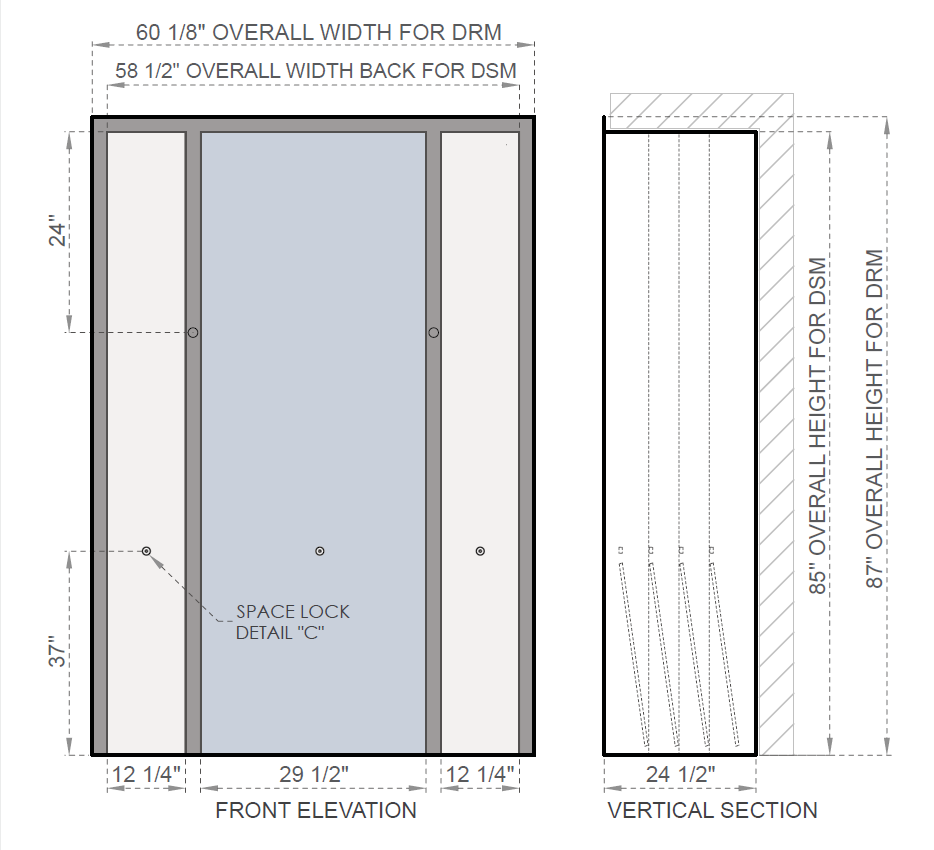
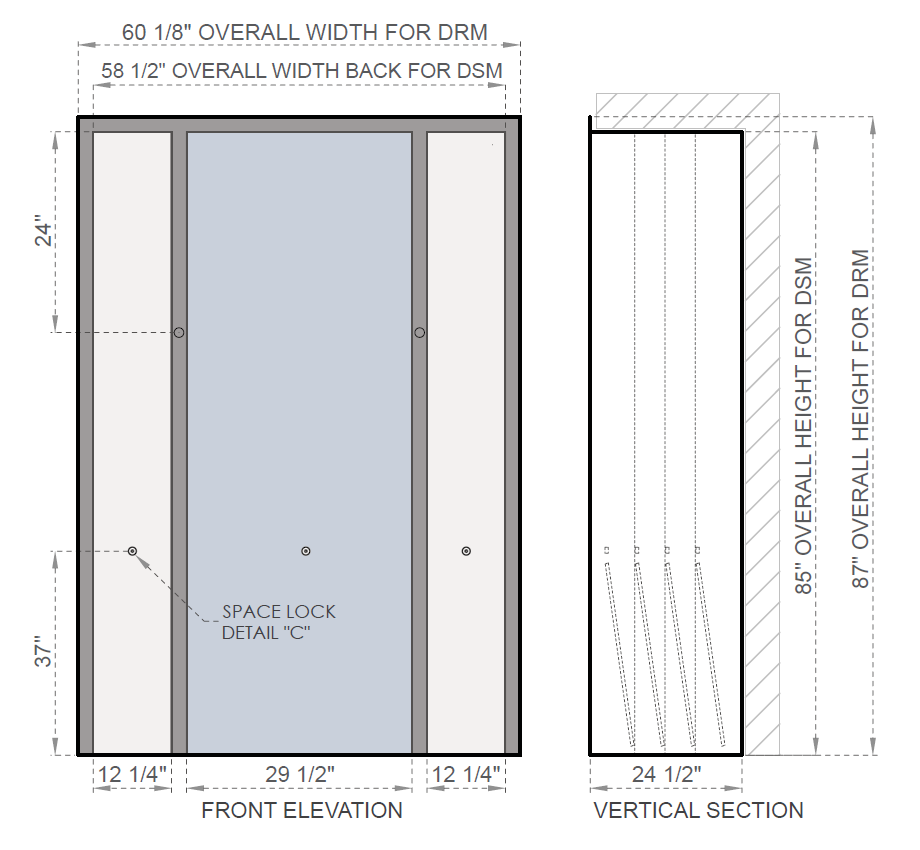
ProductInfo: Dimension, and update Table Component

diff --git a/src/pages/ProductsPage/TablesBenches/InWallTable.js b/src/pages/ProductsPage/TablesBenches/InWallTable.js
@@ -8,6 +8,8 @@ import ProductInfo from '../../../components/SpecificProduct/ProductInfo';
 import TableComponent from '../../../components/SpecificProduct/TablesBenches/TableComponent';
 
 import iwtb1 from '../../../assets/images/TablesAndBenches/InWallTables/iwtb_1.png';
+import iwtb_dim1 from '../../../assets/images/TablesAndBenches/InWallTables/iwtb_dim1.png';
+import iwtb_dim2 from '../../../assets/images/TablesAndBenches/InWallTables/iwtb_dim2.png';
 import ctb_finishes from '../../../assets/images/TablesAndBenches/ctb_finishes.png';
 
 const InWallTable = () => {
@@ -56,7 +58,17 @@ const InWallTable = () => {
           </li>
         </HeroBody>
       </HeroProduct>
-      <ProductInfo></ProductInfo>
+      <ProductInfo>
+        <div className={styles.dimensions_box}>
+          <div className={styles.dimensions_title}>Dimensions</div>
+          <div className={styles.dimensions_image_box}>
+            <img src={iwtb_dim2} alt="table_dimensions" />
+            <img src={iwtb_dim1} alt="table_dimensions" />
+          </div>
+        </div>
+
+        <TableComponent />
+      </ProductInfo>
     </ProductSection>
   );
 };

diff --git a/src/pages/ProductsPage/TablesBenches/InWallTable.module.css b/src/pages/ProductsPage/TablesBenches/InWallTable.module.css
@@ -1,0 +1,27 @@
+.dimensions_box {
+  display: flex;
+  flex-direction: column;
+  align-items: center;
+  margin-bottom: 10rem;
+}
+
+.dimensions_title {
+  font-weight: 600;
+  font-size: 2.6rem;
+  text-transform: uppercase;
+  margin-bottom: 1rem;
+}
+
+.dimensions_image_box {
+  display: flex;
+  flex-direction: column;
+  align-items: center;
+}
+
+.dimensions_image_box img {
+  max-width: 100%;
+}
+
+.dimensions_image_box img:first-child {
+  margin-bottom: 5rem;
+}

diff --git a/src/components/SpecificProduct/TablesBenches/TableComponent.js b/src/components/SpecificProduct/TablesBenches/TableComponent.js
@@ -5,7 +5,7 @@ import ctb_comp from '../../../assets/images/TablesAndBenches/ConvertibleTables/
 
 const TableComponent = () => {
   return (
-    <div>
+    <div className={styles.tc_box}>
       <div className={styles.ctb_hiwtc_title}> Table Components</div>
       <img src={ctb_comp} alt="table_components" />
     </div>

diff --git a/src/components/SpecificProduct/TablesBenches/TableComponent.module.css b/src/components/SpecificProduct/TablesBenches/TableComponent.module.css
@@ -5,6 +5,12 @@
   margin-bottom: 2rem;
 }
 
+.tc_box {
+  display: flex;
+  flex-direction: column;
+  align-items: center;
+}
+
 div img {
   max-width: 100%;
 }
